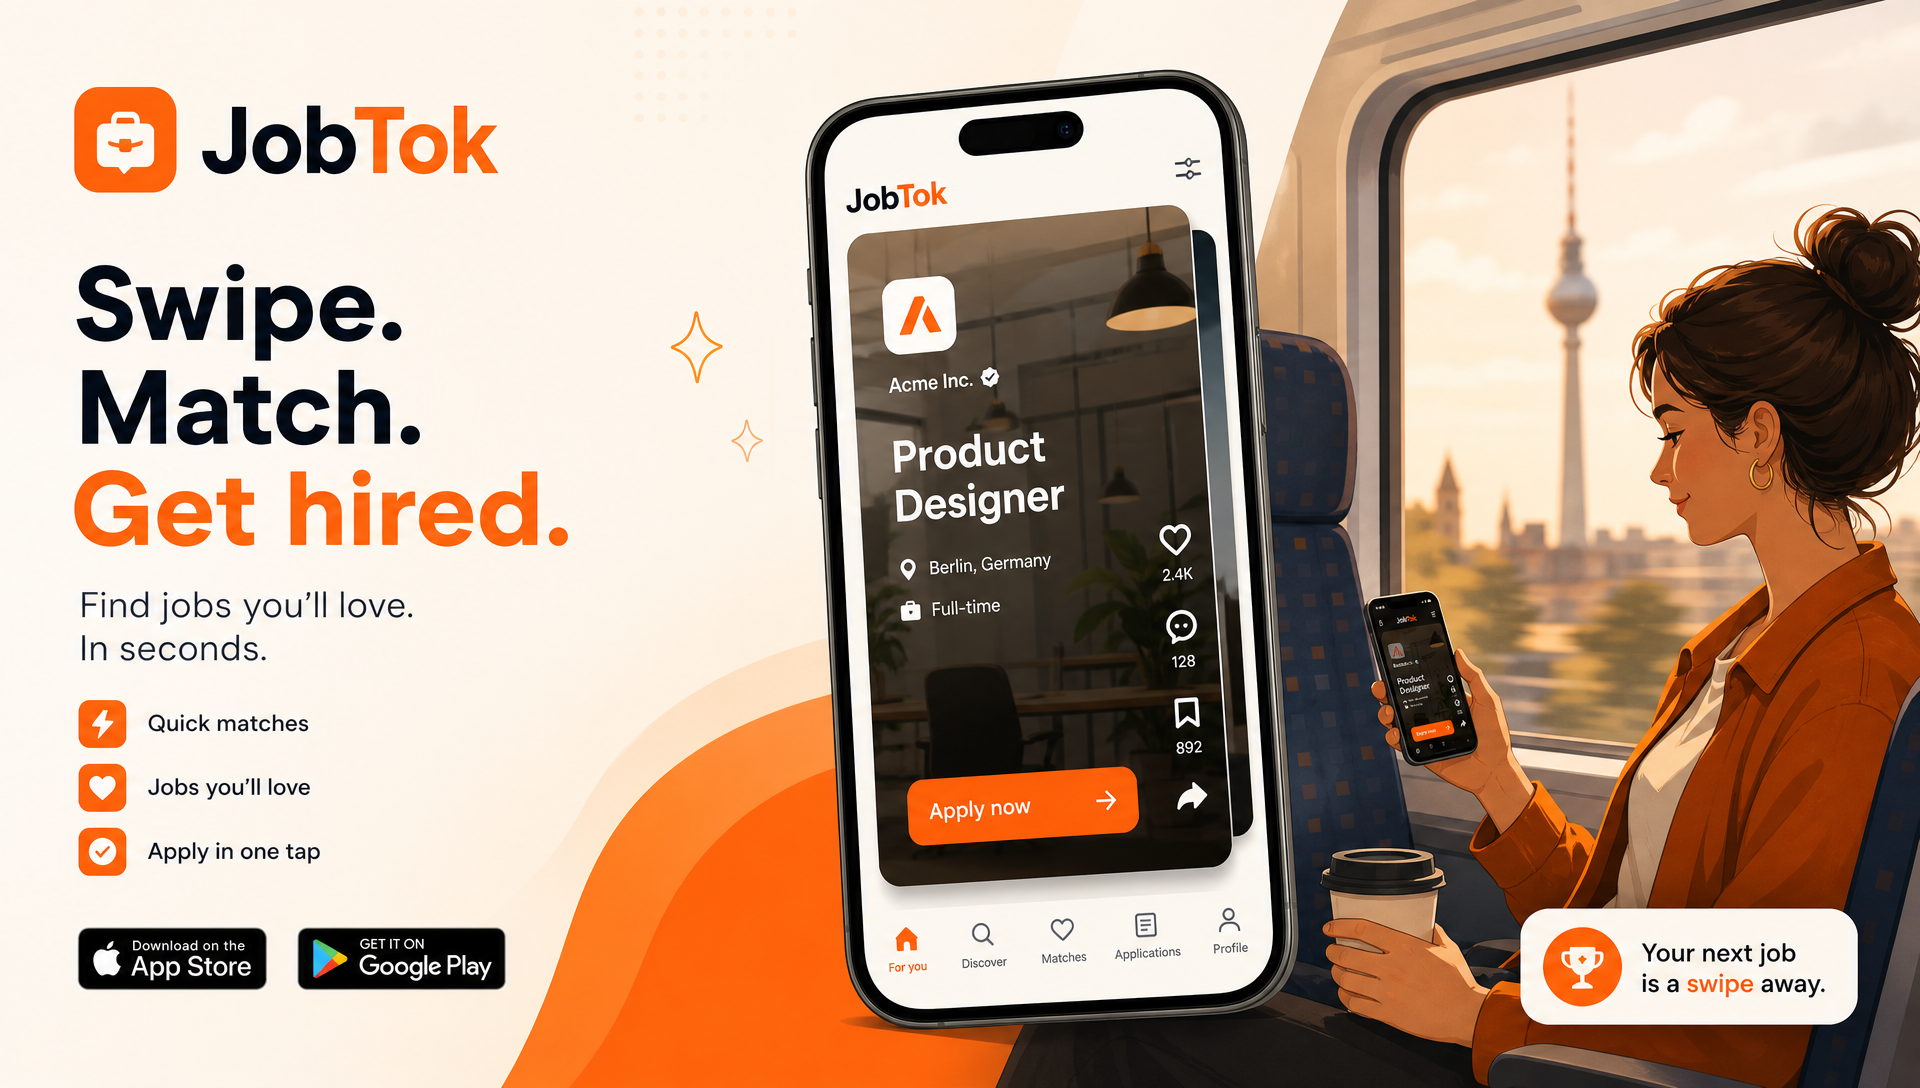
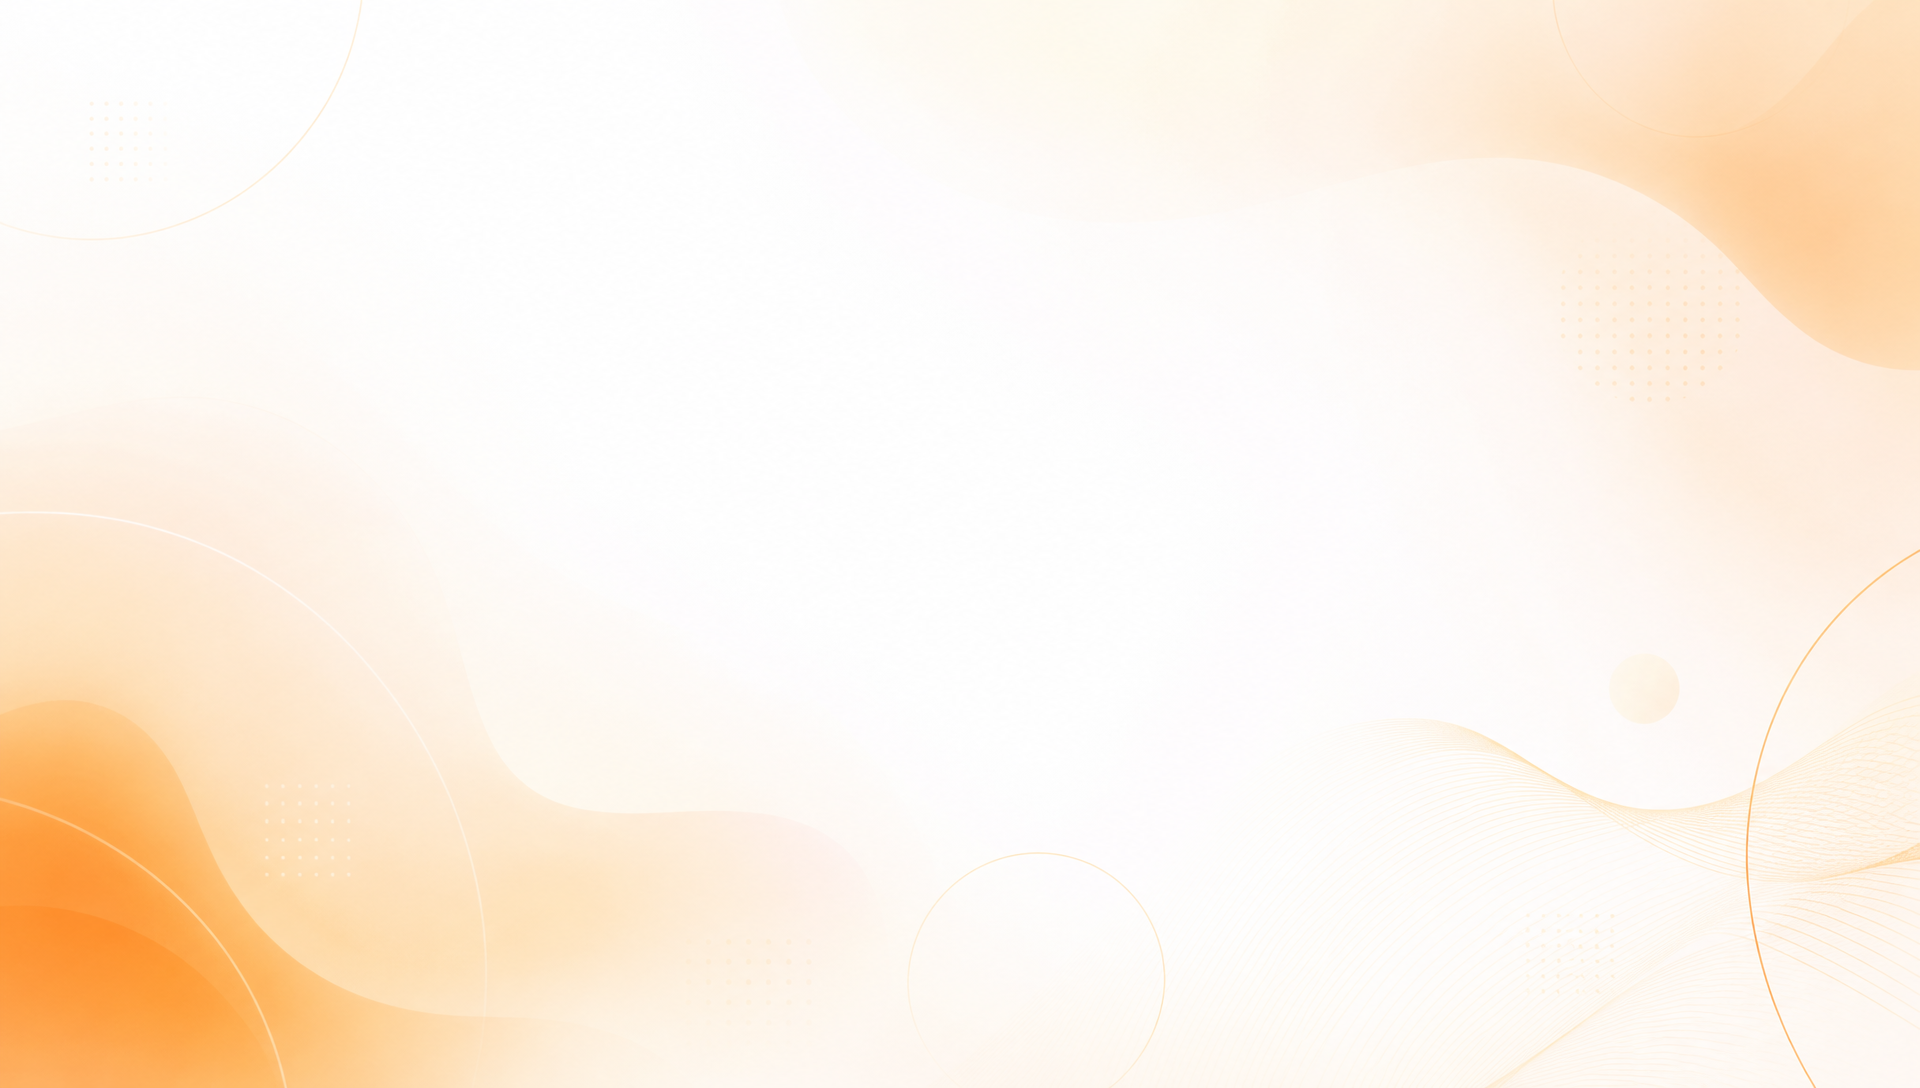
fix: jobtok active via IntersectionObserver, abstract promo bg, nav cleanup

diff --git a/src/components/jobtok/Feed.tsx b/src/components/jobtok/Feed.tsx
@@ -130,24 +130,28 @@ export function JobTokFeed() {
     }
   }, [current, jobs.length, loading, done, page, fetchJobs]);
 
-  // Track active card via scroll snap
+  // Track active card via IntersectionObserver — reliable across all browsers/devices
+  const slideRefs = useRef<Map<number, HTMLDivElement>>(new Map());
   useEffect(() => {
     const el = containerRef.current;
     if (!el) return;
-    let raf = 0;
-    const handler = () => {
-      cancelAnimationFrame(raf);
-      raf = requestAnimationFrame(() => {
-        const idx = Math.round(el.scrollTop / el.clientHeight);
-        setCurrent((c) => (c === idx ? c : idx));
-      });
-    };
-    el.addEventListener("scroll", handler, { passive: true });
-    return () => {
-      el.removeEventListener("scroll", handler);
-      cancelAnimationFrame(raf);
-    };
-  }, []);
+    const observer = new IntersectionObserver(
+      (entries) => {
+        for (const entry of entries) {
+          if (entry.isIntersecting && entry.intersectionRatio >= 0.5) {
+            const idx = Number((entry.target as HTMLElement).dataset.idx);
+            if (!isNaN(idx)) setCurrent(idx);
+          }
+        }
+      },
+      { root: el, threshold: 0.5 }
+    );
+    // Observe all currently rendered slides
+    slideRefs.current.forEach((node) => observer.observe(node));
+    return () => observer.disconnect();
+  // Re-run when jobs list changes so new slides get observed
+  // eslint-disable-next-line react-hooks/exhaustive-deps
+  }, [jobs.length]);
 
   const landEntry = BUNDESLAENDER.find((b) => b.code === land);
   const landLabel = landEntry ? landEntry[lang === "uk" ? "uk" : "de"] : (land ?? "");
@@ -285,7 +289,15 @@ export function JobTokFeed() {
           className="jobtok-scroll jobtok-card-pane"
         >
           {jobs.map((job, i) => (
-            <div key={job.refnr} className="jobtok-slide w-full">
+            <div
+              key={job.refnr}
+              className="jobtok-slide w-full"
+              data-idx={i}
+              ref={(node) => {
+                if (node) slideRefs.current.set(i, node);
+                else slideRefs.current.delete(i);
+              }}
+            >
               <JobCard job={job} active={i === current} index={i} />
             </div>
           ))}

diff --git a/src/components/site-header.tsx b/src/components/site-header.tsx
@@ -173,17 +173,15 @@ export function SiteHeader() {
                 href={href}
                 aria-current={active ? "page" : undefined}
                 className={[
-                  "relative rounded-full px-4 py-2 text-sm font-semibold transition-all duration-200",
+                  "relative flex items-center gap-1.5 rounded-full px-3.5 py-1.5 text-sm font-medium transition-all duration-200",
                   active
                     ? "bg-accent text-white shadow-[0_2px_8px_-2px_var(--accent)]"
-                    : isAccent
-                    ? "border border-orange-200/80 bg-orange-50/80 text-orange-600 hover:bg-orange-100 dark:border-orange-400/20 dark:bg-orange-500/10 dark:text-orange-400"
                     : "text-muted hover:bg-surface hover:text-ink",
                 ].join(" ")}
               >
                 {t(labelKey)}
                 {isAccent && !active && (
-                  <span className="ml-1 rounded-full bg-orange-500 px-1.5 py-px text-[9px] font-bold text-white align-middle">NEW</span>
+                  <span className="rounded-full bg-orange-500/90 px-1.5 py-px text-[9px] font-bold text-white leading-tight">NEW</span>
                 )}
               </Link>
             );

diff --git a/src/components/jobtok-promo.tsx b/src/components/jobtok-promo.tsx
@@ -20,12 +20,12 @@ export function JobTokPromo() {
         }}
         aria-hidden
       />
-      {/* Overlay gradient for readability */}
+      {/* Overlay — light left fade so text reads cleanly, dark mode gets more opacity */}
       <div
         className="absolute inset-0 z-0"
         style={{
           background:
-            "linear-gradient(100deg, color-mix(in srgb, var(--color-page) 92%, transparent) 0%, color-mix(in srgb, var(--color-page) 70%, transparent) 45%, color-mix(in srgb, var(--color-page) 10%, transparent) 100%)",
+            "linear-gradient(105deg, color-mix(in srgb, var(--color-page) 88%, transparent) 0%, color-mix(in srgb, var(--color-page) 55%, transparent) 50%, transparent 100%)",
         }}
         aria-hidden
       />